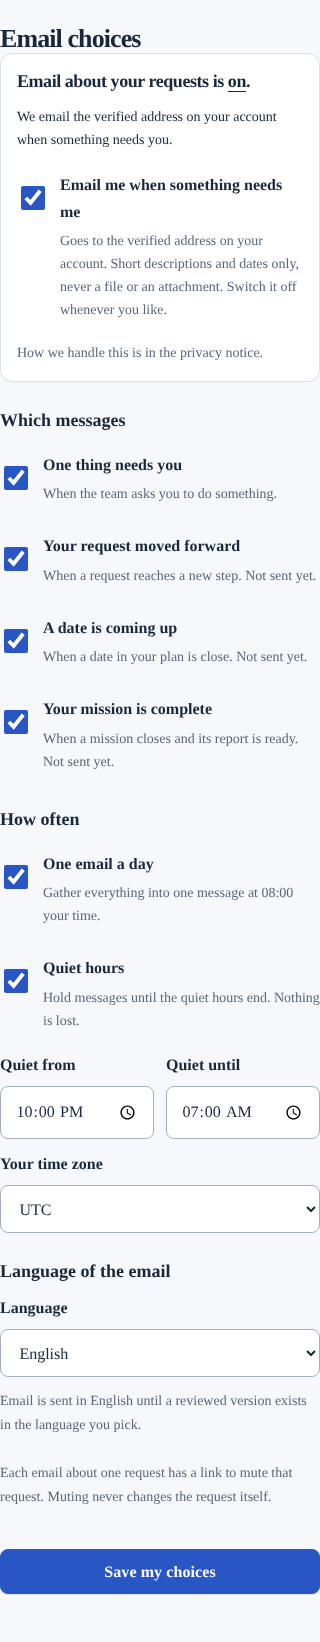
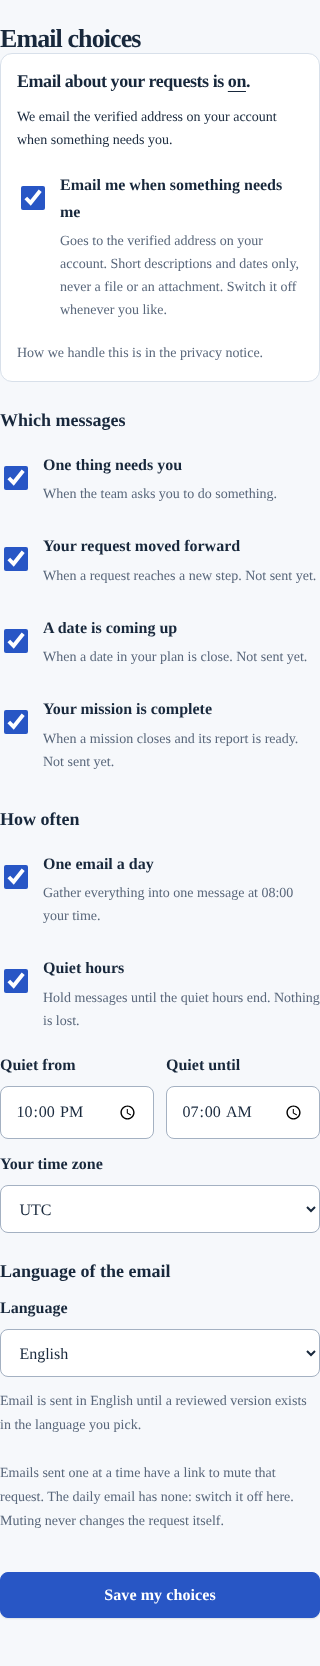
fix(pulse): second pass of the privacy review - 0003 migration, withdrawal without the switch, wording
- Codex P1: 0002 is restored byte-identical to main; the two function changes are the new
  0003_withdrawal_and_issuer_check.sql (installed notification files are hash-checked and never edited).
- A signed-in person who already said yes can switch email off while CORRIDRA_PULSE_ENABLED is off
  (page and route); switching on stays refused.
- Digits in any script count toward the long-number rule; subjects are filled with nothing so a
  translation cannot put the team's words in one.
- Privacy notice, form, pack and docs say what the email really holds (account name, the team's
  short words, a date) and that the daily email has no mute link.
- Tests: 0001+0002 installed then 0003 alone; yes, pause, withdraw, reopen; owner query columns.

Claude-Session: https://claude.ai/code/session_01WFZBZ1EaFq3EDRAf4xaZkC

diff --git a/tests/integration/ux-pulse.test.ts b/tests/integration/ux-pulse.test.ts
@@ -20,6 +20,7 @@ import { signMissionMailMute } from '../../packages/auth/src/mission-mail-mute';
 import {
   databaseRecipientSource,
   noRecipientSource,
+  customerNotificationWithdrawalEnabled,
   pulseApplicationEnabled,
   pulseCapability,
 } from '../../packages/auth/src/customer-notifications';
@@ -304,13 +305,32 @@ describe('every switch-off path', () => {
   it('the owner registry lists the switch as a real flag', () => {
     expect(switchRegistry.find((s) => s.name === 'CORRIDRA_PULSE_ENABLED')?.kind).toBe('flag');
   });
-  it('the preference page and its route answer 404 and 503 when the switch is off', () => {
+  it('with the switch off the page answers 404 and the route 503, except for a person who already said yes switching email off', () => {
     const page = read('apps/web/app/account/notifications/page.tsx');
-    expect(page).toContain('if (!customerNotificationsEnabled()) notFound();');
+    expect(page).toContain('const dark = !customerNotificationsEnabled();');
+    expect(page).toContain('if (dark && !customerNotificationWithdrawalEnabled()) notFound();');
+    // Signed out, unavailable, never chose or already off: the page does not exist.
+    expect(page).toContain('if (dark) notFound();');
+    expect(page).toContain(
+      'if (unavailable || initial.version === 0 || !emailIsOn(initial)) notFound();',
+    );
+    // What a dark page shows is the paused form: nothing can be switched on.
+    expect(page).toContain('initial = { ...initial, open: false };');
     const route = read('apps/web/app/api/pulse/preferences/route.ts');
     expect(route).toContain(
-      "if (!customerNotificationsEnabled()) throw new DomainError('Email choices are unavailable', 503);",
+      'if (!customerNotificationsEnabled() && !(switchingOff && customerNotificationWithdrawalEnabled()))',
     );
+    expect(route).toContain("throw new DomainError('Email choices are unavailable', 503);");
+    // Only a body that saves an empty list counts as switching off.
+    expect(route).toContain(
+      'notificationPreferencesInput.safeParse(value).data?.kinds.length === 0',
+    );
+  });
+  it('the notification service is built from the customer area, so the page and route decide what the Pulse switch allows', () => {
+    expect(read('apps/web/lib/foundations.ts')).toContain(
+      'enabled: customerNotificationWithdrawalEnabled(),',
+    );
+    expect(customerNotificationWithdrawalEnabled({} as NodeJS.ProcessEnv)).toBe(false);
   });
   it('the email-link mute works whatever the sending switch says, so an old link keeps working', () => {
     const route = read('apps/web/app/api/pulse/mute/route.ts');
@@ -553,6 +573,22 @@ describe('email is off until a person switches it on (owner decision of 25 Octob
     expect(renderPulse(move()).text).toContain(
       'You are getting this because you switched on email about your requests in Corridra.',
     );
+  });
+
+  it('no catalog puts the title in a subject, and a catalog that tried would throw', () => {
+    for (const [locale, catalog] of Object.entries(pulseCatalog)) {
+      for (const [name, copy] of Object.entries(catalog))
+        if (typeof copy === 'object' && copy && 'subject' in copy)
+          expect((copy as { subject: string }).subject, `${locale}.${name}`).not.toContain('{');
+    }
+    const en = pulseCatalog.en;
+    const original = en.yourMove.subject;
+    en.yourMove.subject = 'One thing needs you: {title}';
+    try {
+      expect(() => renderPulse(move())).toThrow();
+    } finally {
+      en.yourMove.subject = original;
+    }
   });
 
   it('no subject ever carries the team words, whatever the kind', () => {

diff --git a/apps/web/app/api/pulse/preferences/route.ts b/apps/web/app/api/pulse/preferences/route.ts
@@ -1,6 +1,10 @@
 import { z } from 'zod';
 import { DomainError } from '@corridra/domain';
-import { customerNotificationsEnabled } from '@corridra/auth/customer-notifications';
+import {
+  customerNotificationsEnabled,
+  customerNotificationWithdrawalEnabled,
+} from '@corridra/auth/customer-notifications';
+import { notificationPreferencesInput } from '@corridra/domain/notifications';
 import { foundations } from '../../../../lib/foundations';
 import { boundedBody, deliveryError, deliveryHeaders } from '../../../../lib/delivery-http';
 export const runtime = 'nodejs';
@@ -8,8 +12,11 @@ export const dynamic = 'force-dynamic';
 
 // A person reads and saves their own email choices. The signed-in session decides who is acting; the
 // database repeats every rule and stays closed until the owner opens it.
-async function services() {
-  if (!customerNotificationsEnabled()) throw new DomainError('Email choices are unavailable', 503);
+// With `CORRIDRA_PULSE_ENABLED` off the route still answers a signed-in person who wants to switch email off:
+// saying no never depends on a switch. Anything that would switch email on is refused (503), as before.
+async function services(switchingOff = false) {
+  if (!customerNotificationsEnabled() && !(switchingOff && customerNotificationWithdrawalEnabled()))
+    throw new DomainError('Email choices are unavailable', 503);
   const services = foundations();
   if (!services) throw new DomainError('Email choices are unavailable', 503);
   await services.ready;
@@ -28,7 +35,7 @@ const issuer = (request: Request) => request.headers.get('x-corridra-customer-is
 
 export async function GET(request: Request) {
   try {
-    const s = await services();
+    const s = await services(true);
     return Response.json(await s.customerNotifications.read(subject(request), issuer(request)), {
       headers: deliveryHeaders,
     });
@@ -39,14 +46,16 @@ export async function GET(request: Request) {
 
 export async function POST(request: Request) {
   try {
-    const s = await services();
-    if (request.headers.get('origin') !== new URL(s.config.APP_ORIGIN).origin)
-      throw new DomainError('Request origin is not allowed');
     if (!request.headers.get('content-type')?.startsWith('application/json'))
       throw new DomainError('JSON required', 415);
     const body = (await boundedBody(request, 2000)).toString('utf8');
+    const value = JSON.parse(body);
+    const switchingOff = notificationPreferencesInput.safeParse(value).data?.kinds.length === 0;
+    const s = await services(switchingOff);
+    if (request.headers.get('origin') !== new URL(s.config.APP_ORIGIN).origin)
+      throw new DomainError('Request origin is not allowed');
     return Response.json(
-      await s.customerNotifications.save(JSON.parse(body), subject(request), issuer(request)),
+      await s.customerNotifications.save(value, subject(request), issuer(request)),
       { headers: deliveryHeaders },
     );
   } catch (error) {

diff --git a/apps/web/app/account/notifications/page.tsx b/apps/web/app/account/notifications/page.tsx
@@ -1,6 +1,9 @@
 import { notFound } from 'next/navigation';
-import { customerNotificationsEnabled } from '@corridra/auth/customer-notifications';
-import { defaultNotificationPreferences } from '@corridra/domain/notifications';
+import {
+  customerNotificationsEnabled,
+  customerNotificationWithdrawalEnabled,
+} from '@corridra/auth/customer-notifications';
+import { defaultNotificationPreferences, emailIsOn } from '@corridra/domain/notifications';
 import { CustomerShell } from '../../../components/customer-shell';
 import { WorkspaceShell } from '../../../components/workspace-shell';
 import { customerPageSession } from '../../../lib/customer-page-session';
@@ -16,13 +19,16 @@ export const metadata = {
 
 /**
  * What the person is emailed, when, and in which language. Behind `CORRIDRA_PULSE_ENABLED`: with the switch
- * off this address does not exist. Saving needs the database control to be open as well; until then the
- * page says so plainly and saves nothing.
+ * off this address does not exist, except for a signed-in person who already said yes: saying no never depends
+ * on a switch, so they get the form in its paused mode (switching off only). Saving needs the database control
+ * to be open as well; until then the page says so plainly and saves nothing but a withdrawal.
  */
 export default async function Page() {
-  if (!customerNotificationsEnabled()) notFound();
+  const dark = !customerNotificationsEnabled();
+  if (dark && !customerNotificationWithdrawalEnabled()) notFound();
   const session = await customerPageSession();
-  if (!session.ok)
+  if (!session.ok) {
+    if (dark) notFound();
     return (
       <WorkspaceShell eyebrow="YOUR ACCOUNT" title="Email choices are unavailable." compact>
         <p role="status">{session.message}</p>
@@ -31,6 +37,7 @@ export default async function Page() {
         </a>
       </WorkspaceShell>
     );
+  }
   const services = foundations();
   let initial = { ...defaultNotificationPreferences, version: 0, open: false, synthetic: false };
   let unavailable = false;
@@ -40,6 +47,11 @@ export default async function Page() {
     initial = await services.customerNotifications.read(session.subject, session.issuer);
   } catch {
     unavailable = true;
+  }
+  if (dark) {
+    // Only a person with a saved yes sees the page while the switch is off, and only to switch email off.
+    if (unavailable || initial.version === 0 || !emailIsOn(initial)) notFound();
+    initial = { ...initial, open: false };
   }
   return (
     <CustomerShell tab="more" eyebrow="EMAIL CHOICES" title="Choose what we email you.">

diff --git a/apps/web/app/privacy/page.tsx b/apps/web/app/privacy/page.tsx
@@ -484,12 +484,13 @@ export default function Page() {
                 send, we read your name and verified address from your account and pass them to
                 Resend, which delivers the email, with sending configured in Ireland. Resend keeps
                 its own delivery record, including the address and the content, for a limited time
-                under its terms. We do not keep your address in our own database. Each email
-                contains your name, a short description of what is needed as written by our team, a
-                date if there is one, a link to the request or to Your Move, and a link to your
-                email choices. Emails about one request also have a link to mute that request. We
-                keep each version of your email choices with its time, as the record of your
-                consent, and a record of each message (which request, its description, date and
+                under its terms. Our email records do not hold your address. Each email contains
+                your name, a short description of what is needed as written by our team, a date if
+                there is one, a link to the request or to Your Move, and a link to your email
+                choices. Emails sent one at a time about a request also have a link to mute that
+                request; the daily email has none, and you can switch it off on the Email choices
+                page. We keep each version of your email choices with its time, as the record of
+                your consent, and a record of each message (which request, its description, date and
                 status, never your address) in the Frankfurt application database. These records are
                 not deleted automatically; contact us to have them reviewed. Basis: your consent.
               </p>

diff --git a/packages/domain/src/moves.ts b/packages/domain/src/moves.ts
@@ -2,7 +2,7 @@ import { z } from 'zod';
 
 // Move records: what a person must do next, set by the Corridra team about one request. The rules for
 // the words are here and in the database (the database is the authority; this gives the early, plain
-// message). A Move is plain: no link, no markup, no address and nothing that looks like money, so it
+// message), except the long-number rule, which only this file and the server that parses with it enforce. A Move is plain: no link, no markup, no address and nothing that looks like money, so it
 // can never become a side channel for a price, a payment instruction or a contact detail.
 export const moveVerbs = ['Read', 'Answer', 'Add', 'Confirm', 'Choose', 'Send'] as const;
 export type MoveVerbName = (typeof moveVerbs)[number];
@@ -15,9 +15,11 @@ export const maxMoveObject = 80;
 const control = /[\u0000-\u001f\u007f<>]/u;
 const link = /(https?:|www\.|@|\.(com|net|org|io|co|cn|bd|es)\b)/i;
 const currencyWord = /\b(usd|eur|gbp|bdt|cny|rmb|inr)\b/i;
-// A run of seven or more digits is an identity, passport, phone or account number, never plain words. The Move
-// words can become an email subject and a kept record, so they must not carry one (privacy review, 25 Oct 2026).
-const longNumber = /\d{7,}/;
+// A run of seven or more digits, in any script (Bangla and Arabic-Indic digits count), is an identity, passport,
+// phone or account number, never plain words. The Move words go into an email body and a kept record, so they
+// must not carry one (privacy review, 25 Oct 2026). Spaces or dashes between groups are not caught: the warning
+// on the staff screen covers that.
+const longNumber = /\p{Nd}{7,}/u;
 const money = new RegExp(
   [
     '[$€£৳¥]',

diff --git a/packages/auth/src/pulse-templates.ts b/packages/auth/src/pulse-templates.ts
@@ -1,6 +1,6 @@
 // Pulse email (ADR-067): "One thing needs you", "Your request moved forward", "A date is coming up", "Your
 // mission is complete" and the daily digest. Pure functions: no network, no logging, no sending. A body shows
-// the person's first name, a short description written by the team (80 characters at most, checked in the
+// the name on the person's account, a short description written by the team (80 characters at most, checked in the
 // database) and a date; a subject never carries the team's words, and no price, file or document number is
 // meant to appear. The words live in the catalog, so another language only adds a catalog entry (English until one is reviewed).
 // Mission mail's templates are not edited; this file only reuses their exported helpers.
@@ -196,7 +196,7 @@ function compose(input: PulseInput | PulseDigestInput, catalog: Catalog): Body {
   if (input.kind === 'your-move') {
     const copy = catalog.yourMove;
     return {
-      subject: fillPulse(copy.subject, { title }),
+      subject: fillPulse(copy.subject, {}),
       preheader: copy.preheader,
       paragraphs: [
         greeting,
@@ -222,7 +222,7 @@ function compose(input: PulseInput | PulseDigestInput, catalog: Catalog): Body {
   if (input.kind === 'countdown') {
     const copy = catalog.countdown;
     return {
-      subject: fillPulse(copy.subject, { title }),
+      subject: fillPulse(copy.subject, {}),
       preheader: copy.preheader,
       paragraphs: [
         greeting,

diff --git a/packages/auth/src/customer-notifications.ts b/packages/auth/src/customer-notifications.ts
@@ -19,6 +19,14 @@ import { signPulseMute } from './pulse-mute';
 export function customerNotificationsEnabled(env: NodeJS.ProcessEnv = process.env) {
   return customerRequestsEnabled(env) && env.CORRIDRA_PULSE_ENABLED === 'true';
 }
+/**
+ * Saying no never depends on the Pulse switch. With `CORRIDRA_PULSE_ENABLED` off, a signed-in person who already
+ * said yes can still reach their email choices and switch email off; nothing else is offered and nothing can be
+ * switched on. It needs the customer area itself, which the person is already inside.
+ */
+export function customerNotificationWithdrawalEnabled(env: NodeJS.ProcessEnv = process.env) {
+  return customerRequestsEnabled(env);
+}
 /** Sending needs this switch, real use, and in the database the notification control. All three. */
 export function pulseApplicationEnabled(env: NodeJS.ProcessEnv = process.env) {
   return env.CORRIDRA_PULSE_ENABLED === 'true' && realUseEnabled(env);

diff --git a/tests/integration/notification-database.test.ts b/tests/integration/notification-database.test.ts
@@ -1442,4 +1442,18 @@ describe('email is off until a person switches it on, and the address is read at
         f.owner.query(statement.replaceAll('<sign-in subject>', randomUUID())),
       ).resolves.toBeDefined();
   });
+  test('a yes given while open is withdrawn while paused, and reopening queues nothing for that person', async () => {
+    const p = await person();
+    expect(await prefs(p)).toMatchObject({ open: true, version: 1 });
+    await setControl(false);
+    try {
+      expect(await savePrefs(p, { kinds: [] })).toEqual({ saved: true, version: 2 });
+    } finally {
+      await setControl(true);
+    }
+    expect(await prefs(p)).toMatchObject({ open: true, version: 2, kinds: [] });
+    const set = await setMoves(p, [{ object: 'your import licence number' }]);
+    expect(set.queued).toBe(0);
+    expect(set.jobs).toEqual([]);
+  });
 });

diff --git a/apps/web/lib/foundations.ts b/apps/web/lib/foundations.ts
@@ -92,7 +92,7 @@ import {
   CustomerNotificationService,
   PulseService,
   databaseRecipientSource,
-  customerNotificationsEnabled,
+  customerNotificationWithdrawalEnabled,
 } from '@corridra/auth/customer-notifications';
 import { MissionMailService, missionMailApplicationEnabled } from '@corridra/auth/mission-mail';
 import { ViewAsService } from '@corridra/auth/view-as';
@@ -415,7 +415,8 @@ function createServices() {
       runtimePool,
       authPool,
       {
-        enabled: customerNotificationsEnabled(),
+        // The page and the route decide what the Pulse switch allows (only switching off when it is off).
+        enabled: customerNotificationWithdrawalEnabled(),
         synthetic: config.DATA_ENVIRONMENT === 'synthetic',
         dataMode: realUseEnabled() ? 'real' : 'synthetic',
         production: customerProductionLocked(),

diff --git a/tests/integration/privacy-notice.test.ts b/tests/integration/privacy-notice.test.ts
@@ -108,7 +108,8 @@ describe('the privacy notice', () => {
     expect(await text(real)).not.toContain(pulseSentence);
     const page = await text({ ...real, CORRIDRA_PULSE_ENABLED: 'true' });
     expect(page).toContain(pulseSentence);
-    expect(page).toContain('We do not keep your address in our own database.');
+    expect(page).toContain('Our email records do not hold your address.');
+    expect(page).toContain('the daily email has none');
     expect(page).toContain('Resend keeps its own delivery record');
     expect(page).toContain('a short description of what is needed as written by our team');
     expect(page).toContain('Basis: your consent.');

diff --git a/tests/integration/support.ts b/tests/integration/support.ts
@@ -9,7 +9,7 @@ export const connection = (
   password = sandbox.ownerPassword,
 ) => ({ host: '127.0.0.1', port: 54329, database, user, password });
 export async function freshDatabase(name: string) {
-  if (!/^corridra_(integration|upgrade|restore)$/.test(name))
+  if (!/^corridra_(integration|upgrade|upgrade_third|restore)$/.test(name))
     throw new Error('Only isolated integration databases may be reset');
   const admin = new Pool(connection('postgres'));
   await admin.query(`DROP DATABASE IF EXISTS ${name} WITH (FORCE)`);

diff --git a/apps/web/app/account/notifications/notifications-form.tsx b/apps/web/app/account/notifications/notifications-form.tsx
@@ -307,8 +307,8 @@ export function NotificationsForm({
             </p>
           </fieldset>
           <p className="notifications-help">
-            Each email about one request has a link to mute that request. Muting never changes the
-            request itself.
+            Emails sent one at a time have a link to mute that request. The daily email has none:
+            switch it off here. Muting never changes the request itself.
           </p>
         </>
       )}
